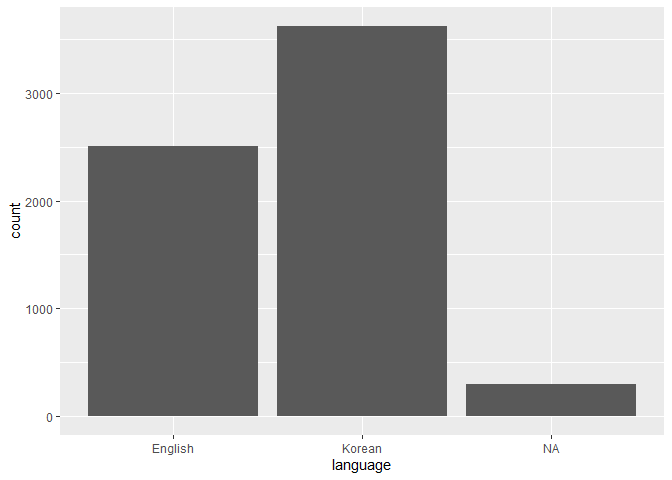
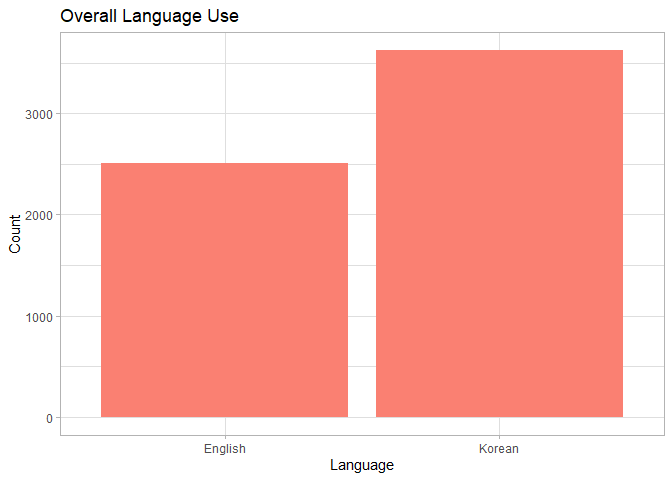
Visualizations and saved images

diff --git a/data_processing.md b/data_processing.md
@@ -97,6 +97,12 @@ print(lyrics)
     10 Nontitle_Ah_Yeah_15.csv 막 귀들 방구석 박혀 밖에 나오질 … Nontitle   2015       Ah Yeah   
     # ℹ 1,572 more rows
 
+``` r
+?remove()
+```
+
+    starting httpd help server ... done
+
 ## Cleaning up the Data
 
 I used functions from tidy text to make it so that each word is its own
@@ -156,7 +162,7 @@ lyricdf <- lyrics |>
 ## Analyzing the Data
 
 ``` r
-#code meant to count the language breakdown of the lyrics overall
+#to count the language breakdown of the lyrics overall
 lyricsdf |> count(language, sort=TRUE)
 ```
 
@@ -169,37 +175,143 @@ lyricsdf |> count(language, sort=TRUE)
 
 ``` r
 #...and visualize it:
-ggplot(lyricsdf, aes(x = language)) +
-  geom_bar()
+ggplot(data=subset(lyricsdf, !is.na(language)), aes(x = language)) +
+  geom_bar(fill = "salmon")+ theme_light() + xlab("Language") + ylab("Count") + labs(title = "Overall Language Use")
 ```
 
 ![](data_processing_files/figure-commonmark/unnamed-chunk-3-1.png)
 
 ``` r
+ggsave("Overall Language Use.png")
+```
+
+    Saving 7 x 5 in image
+
+``` r
 #code meant to count the language breakdown of lyrics by album
+table(lyricsdf$album_year, lyricsdf$language)
+```
 
+          
+           English Korean
+      2015     828    980
+      2020     494   1031
+      2023     476    944
+      2024     710    666
 
+``` r
 #...and visualize it:
-ggplot(lyricsdf, aes(x = language, fill = album_year)) +
-  geom_bar()
+ggplot(data=subset(lyricsdf, !is.na(language)), aes(x = language, fill = album_year, na.rm = FALSE)) +
+  geom_bar(position = "dodge") + xlab("Language") + ylab("Lyrics") + labs(fill = "Album Year")  + labs(title = "Language Use for Each Album Year")
 ```
 
 ![](data_processing_files/figure-commonmark/unnamed-chunk-3-2.png)
 
 ``` r
-ggplot(lyricsdf, aes(x = album_year, fill = language)) +
-  geom_bar(position = "fill")
+ggsave("Language Use for Each Album Year.png")
+```
+
+    Saving 7 x 5 in image
+
+``` r
+ggplot(data=subset(lyricsdf, !is.na(language)), aes(x = album_year, fill = language)) +
+  geom_bar(position = "dodge") + xlab("Album Year") + ylab("Lyrics") + labs(fill = "Language") + labs(title = "Language Comparison by Album Year")
 ```
 
 ![](data_processing_files/figure-commonmark/unnamed-chunk-3-3.png)
 
 ``` r
-#...by title versus non-title track
-ggplot(lyricsdf, aes(x = track_type, fill = language)) +
-  geom_bar(position = "fill")
+ggsave("Language Comparison by Album Year.png")
+```
+
+    Saving 7 x 5 in image
+
+``` r
+#...by song:
+ggplot(data=subset(lyricsdf, !is.na(language)), aes(y = song_title, fill = language)) +
+  geom_bar(position = "fill") + xlab("Lyrics") + ylab("Song") + labs(fill = "Language") + labs(title = "Language Use by Song")
 ```
 
 ![](data_processing_files/figure-commonmark/unnamed-chunk-3-4.png)
+
+``` r
+ggsave("Language Use by Song.png")
+```
+
+    Saving 7 x 5 in image
+
+``` r
+#...by title versus non-title track
+ggplot(data=subset(lyricsdf, !is.na(language)), aes(x = track_type, fill = language)) +
+  geom_bar(position = "fill") + xlab("Track Type") + ylab("Lyrics") + labs(fill ="Language") + labs(title = "Language Use by Nontitle vs. Title Tracks")
+```
+
+![](data_processing_files/figure-commonmark/unnamed-chunk-3-5.png)
+
+``` r
+ggsave("Language Use by Nontitle vs. Title Tracks.png")
+```
+
+    Saving 7 x 5 in image
+
+``` r
+#sorting songs into albums:
+filter(lyricsdf, album_year == "2024") ->> byalbum24
+filter(lyricsdf, album_year == "2023") ->> byalbum23
+filter(lyricsdf, album_year == "2020") ->> byalbum20
+filter(lyricsdf, album_year == "2015") ->> byalbum15
+
+#visualizing language use by album and song using objects from above ^: 
+ggplot(data=subset(byalbum15, !is.na(language)), aes(y = song_title, fill = language)) +
+  geom_bar(position = "fill") + xlab("Lyrics") + ylab("Songs") + labs(title= "Language Use for Debut (2015) Album")
+```
+
+![](data_processing_files/figure-commonmark/unnamed-chunk-3-6.png)
+
+``` r
+ggsave("Language Use for Debut.png")
+```
+
+    Saving 7 x 5 in image
+
+``` r
+ggplot(data=subset(byalbum20, !is.na(language)), aes(y = song_title, fill = language)) +
+  geom_bar(position = "fill") + xlab("Lyrics") + ylab("Songs") + labs(title= "Language Use for Mid-Career (2020) Album")
+```
+
+![](data_processing_files/figure-commonmark/unnamed-chunk-3-7.png)
+
+``` r
+ggsave("Language Use for Mid-Career.png")
+```
+
+    Saving 7 x 5 in image
+
+``` r
+ggplot(data=subset(byalbum23, !is.na(language)), aes(y = song_title, fill = language)) +
+  geom_bar(position = "fill") + xlab("Lyrics") + ylab("Songs") + labs(title= "Language Use for Best-selling (2023) Album")
+```
+
+![](data_processing_files/figure-commonmark/unnamed-chunk-3-8.png)
+
+``` r
+ggsave("Language Use for Best-selling.png")
+```
+
+    Saving 7 x 5 in image
+
+``` r
+ggplot(data=subset(byalbum24, !is.na(language)), aes(y = song_title, fill = language)) +
+  geom_bar(position = "fill") + xlab("Lyrics") + ylab("Songs") + labs(title= "Language Use for Latest (2024) Album")
+```
+
+![](data_processing_files/figure-commonmark/unnamed-chunk-3-9.png)
+
+``` r
+ggsave("Language Use for Latest.png")
+```
+
+    Saving 7 x 5 in image
 
 Session Info
 
@@ -237,11 +349,12 @@ sessionInfo()
      [5] lattice_0.22-7     hms_1.1.3          digest_0.6.37      magrittr_2.0.3    
      [9] evaluate_1.0.5     grid_4.5.1         timechange_0.3.0   RColorBrewer_1.1-3
     [13] fastmap_1.2.0      jsonlite_2.0.0     Matrix_1.7-3       scales_1.4.0      
-    [17] cli_3.6.5          rlang_1.1.6        crayon_1.5.3       tokenizers_0.3.0  
-    [21] bit64_4.6.0-1      withr_3.0.2        yaml_2.3.10        tools_4.5.1       
-    [25] parallel_4.5.1     tzdb_0.5.0         vctrs_0.6.5        R6_2.6.1          
-    [29] lifecycle_1.0.4    bit_4.6.0          vroom_1.6.5        pkgconfig_2.0.3   
-    [33] pillar_1.11.0      gtable_0.3.6       glue_1.8.0         Rcpp_1.1.0        
-    [37] xfun_0.52          tidyselect_1.2.1   rstudioapi_0.17.1  knitr_1.50        
-    [41] farver_2.1.2       htmltools_0.5.8.1  SnowballC_0.7.1    labeling_0.4.3    
-    [45] rmarkdown_2.30     compiler_4.5.1    
+    [17] textshaping_1.0.1  cli_3.6.5          rlang_1.1.6        crayon_1.5.3      
+    [21] tokenizers_0.3.0   bit64_4.6.0-1      withr_3.0.2        yaml_2.3.10       
+    [25] tools_4.5.1        parallel_4.5.1     tzdb_0.5.0         vctrs_0.6.5       
+    [29] R6_2.6.1           lifecycle_1.0.4    bit_4.6.0          vroom_1.6.5       
+    [33] ragg_1.4.0         pkgconfig_2.0.3    pillar_1.11.0      gtable_0.3.6      
+    [37] glue_1.8.0         Rcpp_1.1.0         systemfonts_1.2.3  xfun_0.52         
+    [41] tidyselect_1.2.1   rstudioapi_0.17.1  knitr_1.50         farver_2.1.2      
+    [45] htmltools_0.5.8.1  SnowballC_0.7.1    labeling_0.4.3     rmarkdown_2.30    
+    [49] compiler_4.5.1    
